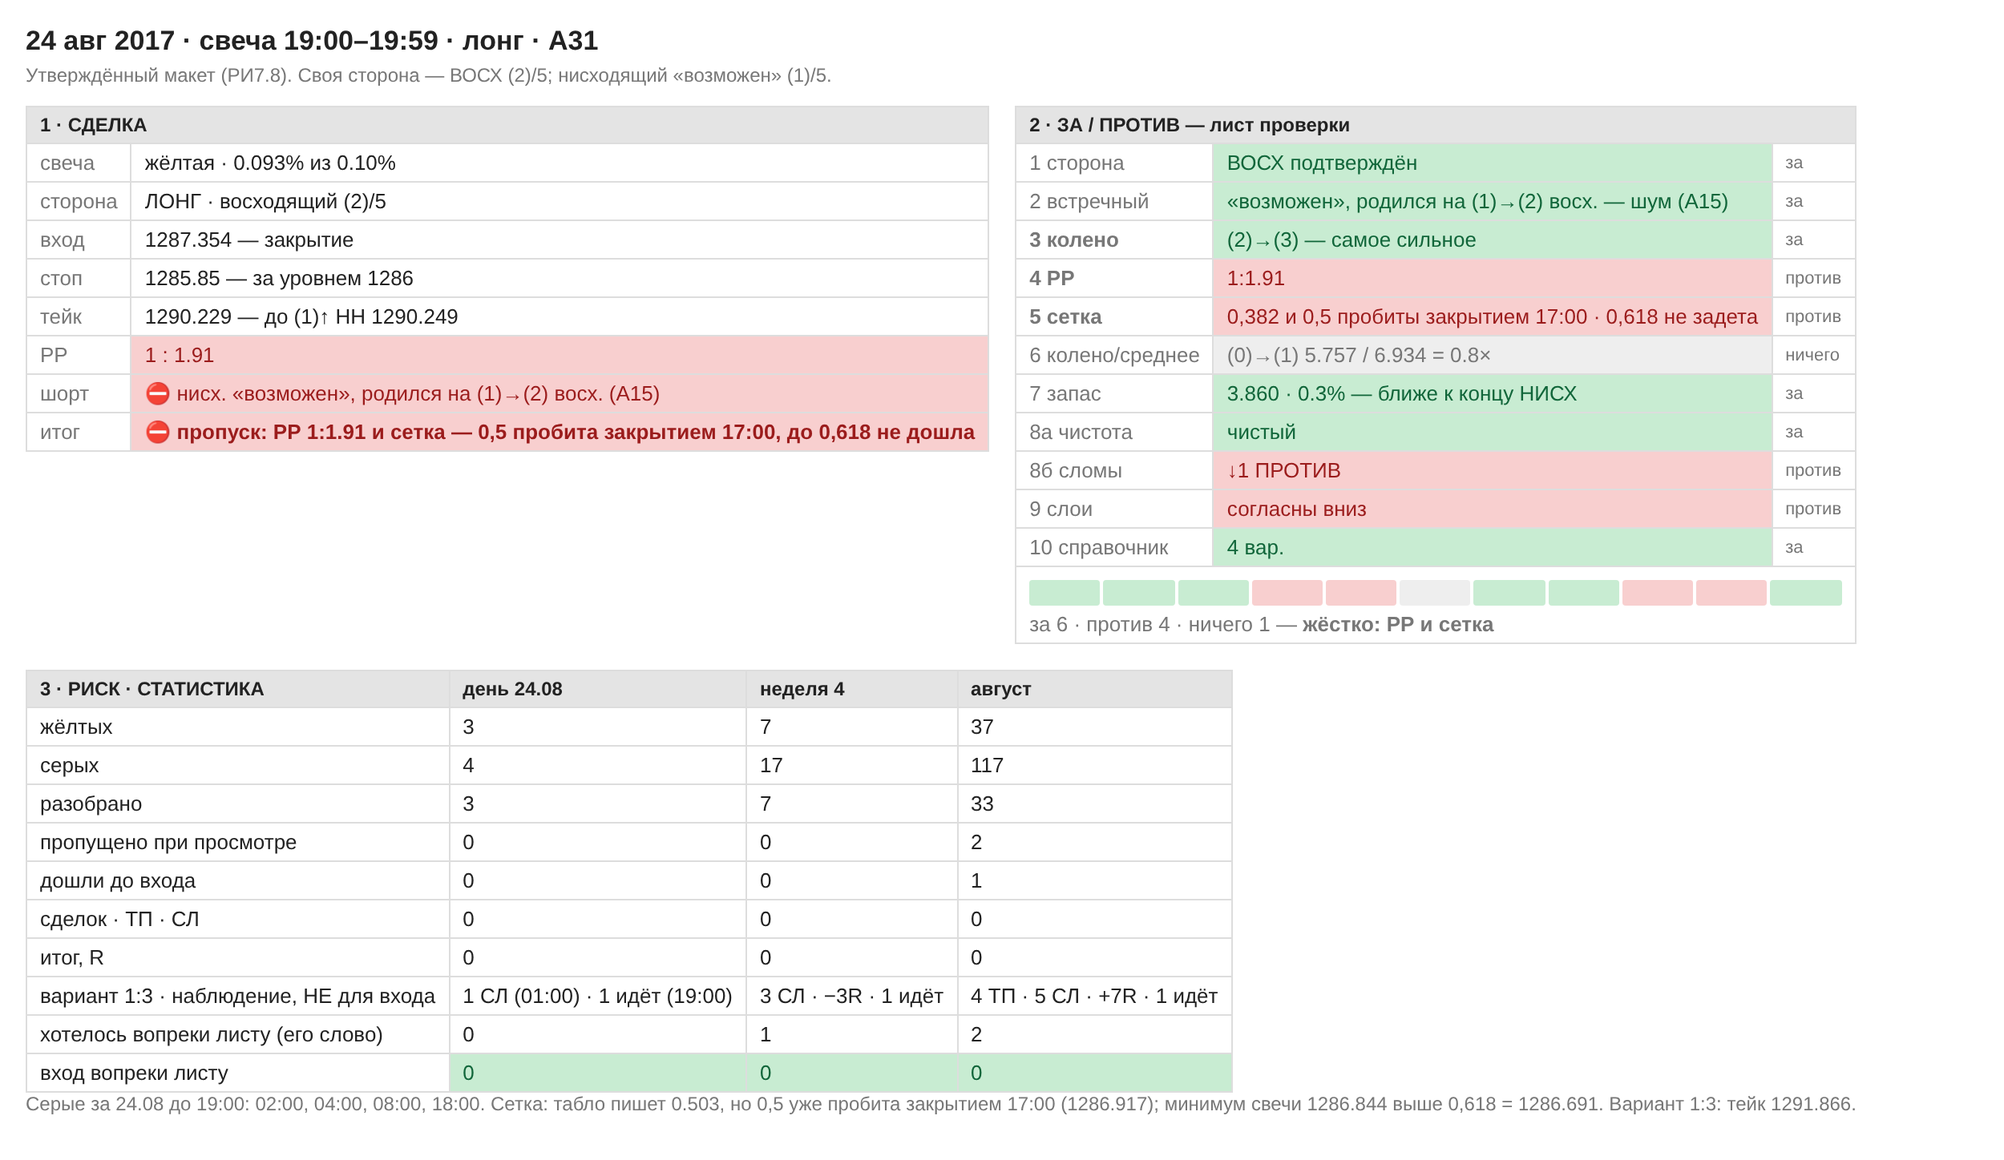
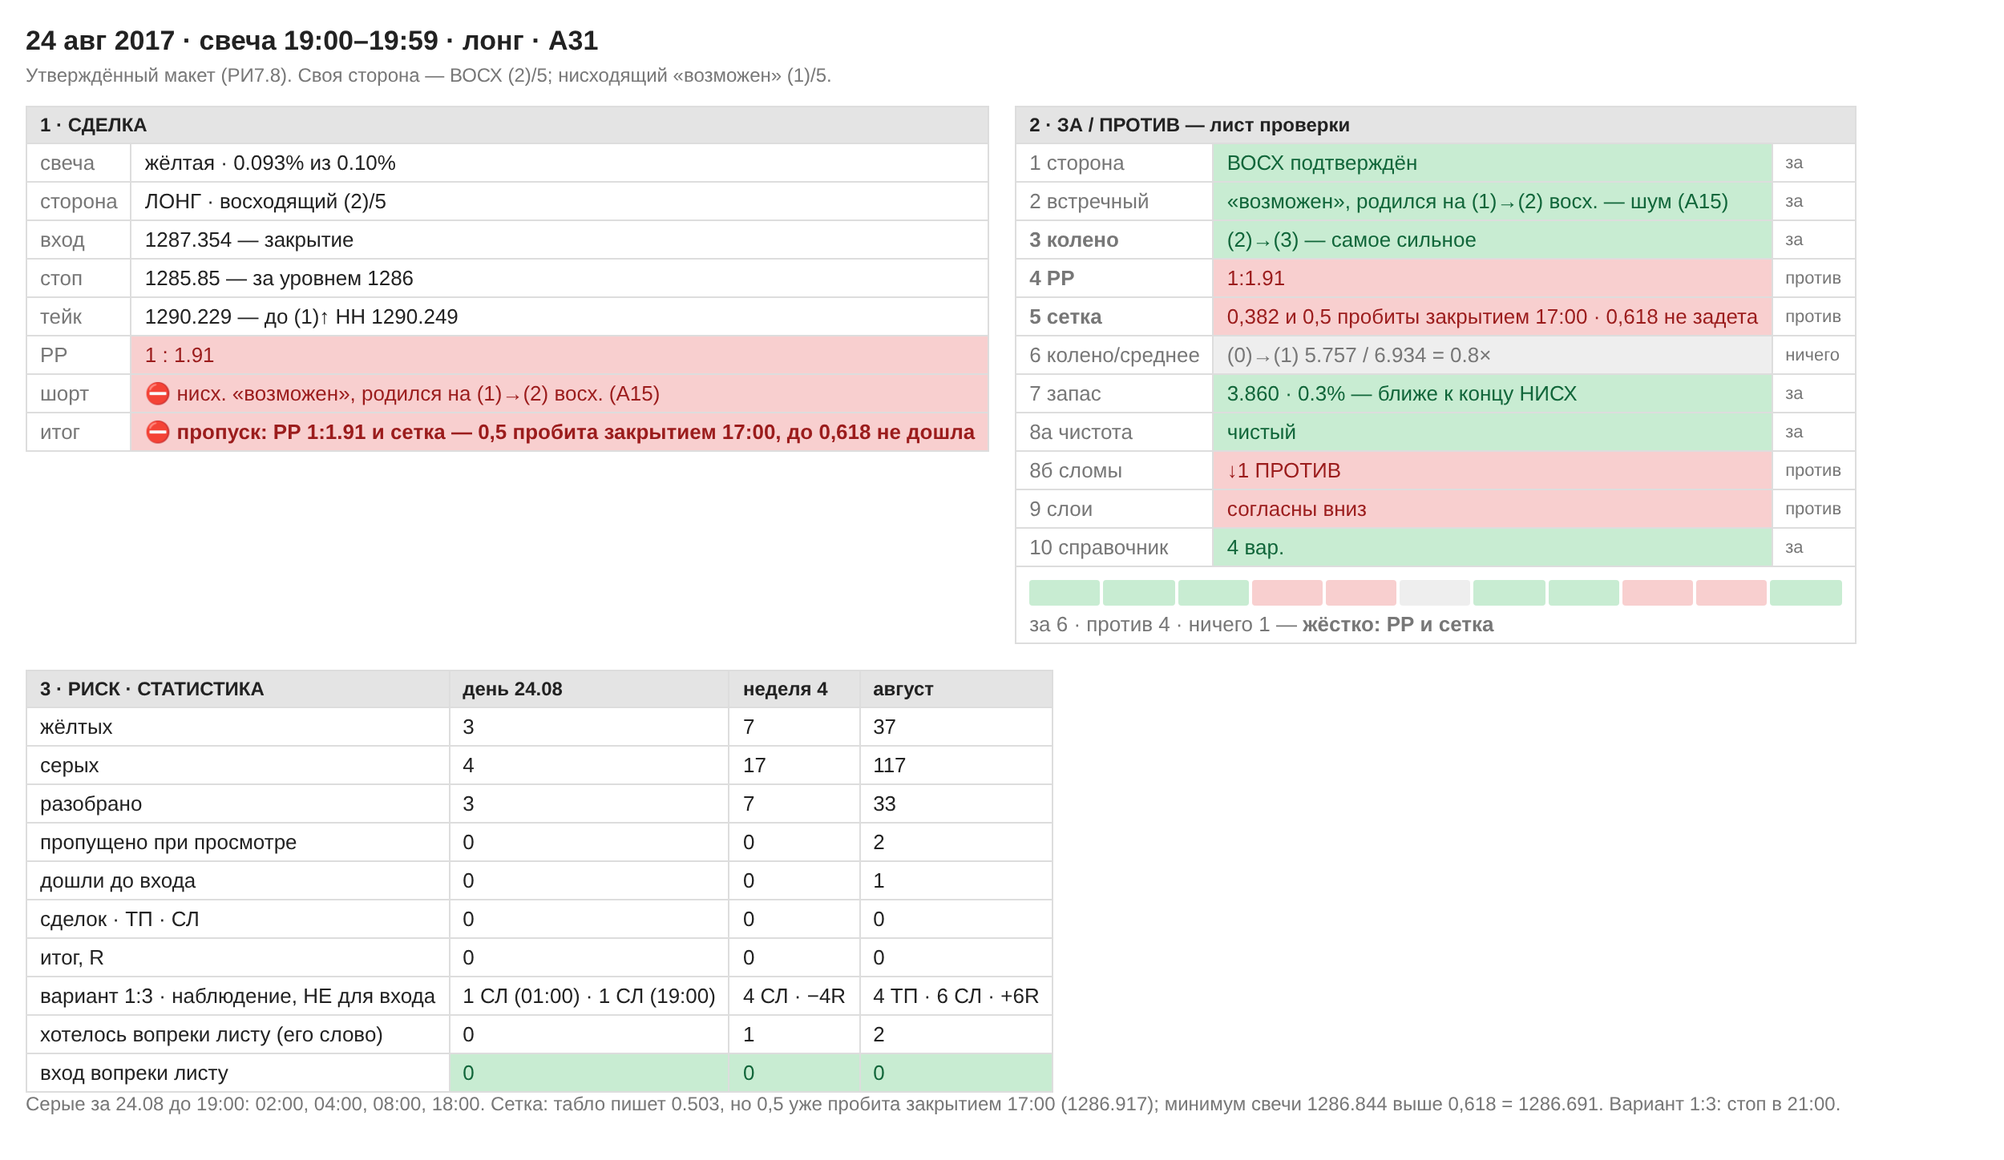
24 авг 19:00: лонг и вариант 1:3 — стоп в 21:00, сверено; В36 10 случаев, +6R
Claude-Session: https://claude.ai/code/session_01TnuyYeu48W8E686G1zottP

diff --git a/research/out/maket/2017-08-24_1900.html b/research/out/maket/2017-08-24_1900.html
@@ -6,4 +6,4 @@ table{border-collapse:collapse;min-width:360px}td,th{border:1px solid var(--ln);
 th{background:var(--h);font-size:12px}.blk td:first-child{color:var(--mut);white-space:nowrap}
 .g{background:var(--g);color:var(--gt)}.r{background:var(--r);color:var(--rt)}.n{background:var(--n);color:var(--mut)}
 .hard{font-weight:bold}.tag{font-size:11px;color:var(--mut)}
-.bar{display:flex;gap:2px;margin:4px 0}.bar span{flex:1;height:16px;border-radius:2px}</style></head><body><h1>24 авг 2017 · свеча 19:00–19:59 · лонг · А31</h1><p class="sub">Утверждённый макет (РИ7.8). Своя сторона — ВОСХ (2)/5; нисходящий «возможен» (1)/5.</p><div class="wrap"><table class="blk"><tr><th colspan="2">1 · СДЕЛКА</th></tr><tr><td>свеча</td><td class="">жёлтая · 0.093% из 0.10%</td></tr><tr><td>сторона</td><td class="">ЛОНГ · восходящий (2)/5</td></tr><tr><td>вход</td><td class="">1287.354 — закрытие</td></tr><tr><td>стоп</td><td class="">1285.85 — за уровнем 1286</td></tr><tr><td>тейк</td><td class="">1290.229 — до (1)↑ HH 1290.249</td></tr><tr><td>РР</td><td class="r">1 : 1.91</td></tr><tr><td>шорт</td><td class="r">⛔ нисх. «возможен», родился на (1)→(2) восх. (А15)</td></tr><tr><td>итог</td><td class="r hard">⛔ пропуск: РР 1:1.91 и сетка — 0,5 пробита закрытием 17:00, до 0,618 не дошла</td></tr></table><table class="blk"><tr><th colspan="3">2 · ЗА / ПРОТИВ — лист проверки</th></tr><tr><td class="">1 сторона</td><td class="g">ВОСХ подтверждён</td><td class="tag">за</td></tr><tr><td class="">2 встречный</td><td class="g">«возможен», родился на (1)→(2) восх. — шум (А15)</td><td class="tag">за</td></tr><tr><td class="hard">3 колено</td><td class="g">(2)→(3) — самое сильное</td><td class="tag">за</td></tr><tr><td class="hard">4 РР</td><td class="r">1:1.91</td><td class="tag">против</td></tr><tr><td class="hard">5 сетка</td><td class="r">0,382 и 0,5 пробиты закрытием 17:00 · 0,618 не задета</td><td class="tag">против</td></tr><tr><td class="">6 колено/среднее</td><td class="n">(0)→(1) 5.757 / 6.934 = 0.8×</td><td class="tag">ничего</td></tr><tr><td class="">7 запас</td><td class="g">3.860 · 0.3% — ближе к концу НИСХ</td><td class="tag">за</td></tr><tr><td class="">8а чистота</td><td class="g">чистый</td><td class="tag">за</td></tr><tr><td class="">8б сломы</td><td class="r">↓1 ПРОТИВ</td><td class="tag">против</td></tr><tr><td class="">9 слои</td><td class="r">согласны вниз</td><td class="tag">против</td></tr><tr><td class="">10 справочник</td><td class="g">4 вар.</td><td class="tag">за</td></tr><tr><td colspan="3"><div class="bar"><span class="g"></span><span class="g"></span><span class="g"></span><span class="r"></span><span class="r"></span><span class="n"></span><span class="g"></span><span class="g"></span><span class="r"></span><span class="r"></span><span class="g"></span></div>за 6 · против 4 · ничего 1 — <b>жёстко: РР и сетка</b></td></tr></table><table><tr><th>3 · РИСК · СТАТИСТИКА</th><th>день 24.08</th><th>неделя 4</th><th>август</th></tr><tr><td>жёлтых</td><td class="">3</td><td class="">7</td><td class="">37</td></tr><tr><td>серых</td><td class="">4</td><td class="">17</td><td class="">117</td></tr><tr><td>разобрано</td><td class="">3</td><td class="">7</td><td class="">33</td></tr><tr><td>пропущено при просмотре</td><td class="">0</td><td class="">0</td><td class="">2</td></tr><tr><td>дошли до входа</td><td class="">0</td><td class="">0</td><td class="">1</td></tr><tr><td>сделок · ТП · СЛ</td><td class="">0</td><td class="">0</td><td class="">0</td></tr><tr><td>итог, R</td><td class="">0</td><td class="">0</td><td class="">0</td></tr><tr><td>вариант 1:3 · наблюдение, НЕ для входа</td><td class="">1 СЛ (01:00) · 1 идёт (19:00)</td><td class="">3 СЛ · −3R · 1 идёт</td><td class="">4 ТП · 5 СЛ · +7R · 1 идёт</td></tr><tr><td>хотелось вопреки листу (его слово)</td><td class="">0</td><td class="">1</td><td class="">2</td></tr><tr><td>вход вопреки листу</td><td class="g">0</td><td class="g">0</td><td class="g">0</td></tr></table></div><p class="sub">Серые за 24.08 до 19:00: 02:00, 04:00, 08:00, 18:00. Сетка: табло пишет 0.503, но 0,5 уже пробита закрытием 17:00 (1286.917); минимум свечи 1286.844 выше 0,618 = 1286.691. Вариант 1:3: тейк 1291.866.</p></body></html>
+.bar{display:flex;gap:2px;margin:4px 0}.bar span{flex:1;height:16px;border-radius:2px}</style></head><body><h1>24 авг 2017 · свеча 19:00–19:59 · лонг · А31</h1><p class="sub">Утверждённый макет (РИ7.8). Своя сторона — ВОСХ (2)/5; нисходящий «возможен» (1)/5.</p><div class="wrap"><table class="blk"><tr><th colspan="2">1 · СДЕЛКА</th></tr><tr><td>свеча</td><td class="">жёлтая · 0.093% из 0.10%</td></tr><tr><td>сторона</td><td class="">ЛОНГ · восходящий (2)/5</td></tr><tr><td>вход</td><td class="">1287.354 — закрытие</td></tr><tr><td>стоп</td><td class="">1285.85 — за уровнем 1286</td></tr><tr><td>тейк</td><td class="">1290.229 — до (1)↑ HH 1290.249</td></tr><tr><td>РР</td><td class="r">1 : 1.91</td></tr><tr><td>шорт</td><td class="r">⛔ нисх. «возможен», родился на (1)→(2) восх. (А15)</td></tr><tr><td>итог</td><td class="r hard">⛔ пропуск: РР 1:1.91 и сетка — 0,5 пробита закрытием 17:00, до 0,618 не дошла</td></tr></table><table class="blk"><tr><th colspan="3">2 · ЗА / ПРОТИВ — лист проверки</th></tr><tr><td class="">1 сторона</td><td class="g">ВОСХ подтверждён</td><td class="tag">за</td></tr><tr><td class="">2 встречный</td><td class="g">«возможен», родился на (1)→(2) восх. — шум (А15)</td><td class="tag">за</td></tr><tr><td class="hard">3 колено</td><td class="g">(2)→(3) — самое сильное</td><td class="tag">за</td></tr><tr><td class="hard">4 РР</td><td class="r">1:1.91</td><td class="tag">против</td></tr><tr><td class="hard">5 сетка</td><td class="r">0,382 и 0,5 пробиты закрытием 17:00 · 0,618 не задета</td><td class="tag">против</td></tr><tr><td class="">6 колено/среднее</td><td class="n">(0)→(1) 5.757 / 6.934 = 0.8×</td><td class="tag">ничего</td></tr><tr><td class="">7 запас</td><td class="g">3.860 · 0.3% — ближе к концу НИСХ</td><td class="tag">за</td></tr><tr><td class="">8а чистота</td><td class="g">чистый</td><td class="tag">за</td></tr><tr><td class="">8б сломы</td><td class="r">↓1 ПРОТИВ</td><td class="tag">против</td></tr><tr><td class="">9 слои</td><td class="r">согласны вниз</td><td class="tag">против</td></tr><tr><td class="">10 справочник</td><td class="g">4 вар.</td><td class="tag">за</td></tr><tr><td colspan="3"><div class="bar"><span class="g"></span><span class="g"></span><span class="g"></span><span class="r"></span><span class="r"></span><span class="n"></span><span class="g"></span><span class="g"></span><span class="r"></span><span class="r"></span><span class="g"></span></div>за 6 · против 4 · ничего 1 — <b>жёстко: РР и сетка</b></td></tr></table><table><tr><th>3 · РИСК · СТАТИСТИКА</th><th>день 24.08</th><th>неделя 4</th><th>август</th></tr><tr><td>жёлтых</td><td class="">3</td><td class="">7</td><td class="">37</td></tr><tr><td>серых</td><td class="">4</td><td class="">17</td><td class="">117</td></tr><tr><td>разобрано</td><td class="">3</td><td class="">7</td><td class="">33</td></tr><tr><td>пропущено при просмотре</td><td class="">0</td><td class="">0</td><td class="">2</td></tr><tr><td>дошли до входа</td><td class="">0</td><td class="">0</td><td class="">1</td></tr><tr><td>сделок · ТП · СЛ</td><td class="">0</td><td class="">0</td><td class="">0</td></tr><tr><td>итог, R</td><td class="">0</td><td class="">0</td><td class="">0</td></tr><tr><td>вариант 1:3 · наблюдение, НЕ для входа</td><td class="">1 СЛ (01:00) · 1 СЛ (19:00)</td><td class="">4 СЛ · −4R</td><td class="">4 ТП · 6 СЛ · +6R</td></tr><tr><td>хотелось вопреки листу (его слово)</td><td class="">0</td><td class="">1</td><td class="">2</td></tr><tr><td>вход вопреки листу</td><td class="g">0</td><td class="g">0</td><td class="g">0</td></tr></table></div><p class="sub">Серые за 24.08 до 19:00: 02:00, 04:00, 08:00, 18:00. Сетка: табло пишет 0.503, но 0,5 уже пробита закрытием 17:00 (1286.917); минимум свечи 1286.844 выше 0,618 = 1286.691. Вариант 1:3: стоп в 21:00.</p></body></html>

diff --git a/indicator/ТАБЛО-НА-СВЕЧЕ.md b/indicator/ТАБЛО-НА-СВЕЧЕ.md
@@ -43,7 +43,7 @@
 | 23 авг 22:00 | А28 | скрин | **ВОСХ** / возможен | **(4)** / (1) | ↑ чистый, ↑3 за · ↓ чистый, ↑3 ПРОТИВ | согласны (вверх) | 0.36% · ближе к концу НИСХ | 6.624 / 7.396 | ВОСХ `(2)→(3)`, 0.196 — между | лонг 1:0.88 | пропуск: РР, сетка; шорт — А15 | лонг — **стоп** 24 авг 03:00 |
 | 24 авг 01:00 | А29 | скрин | **ВОСХ** / возможен | **(4)** / (1) | ↑ чистый, ↑3 за · ↓ чистый, ↑3 ПРОТИВ | согласны (вверх) | 0.42% · ближе к концу НИСХ | 6.624 / 7.396 | ВОСХ `(2)→(3)`, 0.128 — между | лонг 1:0.92 | пропуск: РР, сетка; шорт — А15 | лонг — **стоп** 24 авг 03:00 |
 | 24 авг 12:00 | А30 | скрин | умер / **НИСХ** | — / (4)·**(5) предв.** | ↓ чистый, ↓3 за, С20/С29 | согласны (вниз) | 0.42% | 4.136 / 7.097 | НИСХ `(2)→(3)`, −0.207 — за (3), вне сетки | **шорт 1:5.02** | пропуск: бледная (5), ТС8.13 | шорт — **стоп** следующей свечой, 13:00 (макс. 1287.405), ТС8.13 уберёг 1R |
-| 24 авг 19:00 | А31 | скрин | **ВОСХ** / возможен | (2) / (1) | ↑ чистый, ↓1 ПРОТИВ · ↓ чистый, ↓1 за | согласны (вниз) | 0.3% · ближе к концу НИСХ | 5.757 / 6.934 | ВОСХ `(0)→(1)`, табло 0.503 · по Ф1.5 0,5 пробита закрытием 17:00 — между | лонг 1:1.91 | пропуск: РР, сетка; шорт — А15 | — идёт |
+| 24 авг 19:00 | А31 | скрин | **ВОСХ** / возможен | (2) / (1) | ↑ чистый, ↓1 ПРОТИВ · ↓ чистый, ↓1 за | согласны (вниз) | 0.3% · ближе к концу НИСХ | 5.757 / 6.934 | ВОСХ `(0)→(1)`, табло 0.503 · по Ф1.5 0,5 пробита закрытием 17:00 — между | лонг 1:1.91 | пропуск: РР, сетка; шорт — А15 | лонг — **стоп** в 21:00 (и 1:3 тоже) |
 
 ⚠ **8 авг 03:00 — табло на бар позади.** На закрытии свечи было уже
 **(2)** и **ВОСХ**; на графике он видел (1) и «возможен» — З77, починено в
@@ -193,11 +193,11 @@ v3.44 (на проверке).
 | 23 авг 08:00 | шорт | 1285.636 | 1287.15 | 1282.073 | 1:2.35 | **1281.094** | 0.96 | ⛔ **не все**: встречный-кандидат, сетка, запас, слои | ⛔ **стоп** следующей свечой, 09:00 (макс. 1287.268) |
 | 23 авг 22:00 | лонг | 1290.301 | 1288.85 | 1291.578 | 1:0.88 | **1294.654** | 3.06 | ⛔ **не все**: сетка | ⛔ **стоп** 24 авг 03:00 (мин. 1288.268) |
 | 24 авг 01:00 | лонг | 1290.751 | 1289.85 | 1291.578 | 1:0.92 | **1293.454** | 1.86 | ⛔ **не все**: сетка | ⛔ **стоп** 24 авг 03:00 (мин. 1288.268) |
-| 24 авг 19:00 | лонг | 1287.354 | 1285.85 | 1290.229 | 1:1.91 | **1291.866** | 1.62 | ⛔ **не все**: сетка, сломы, слои | — идёт |
+| 24 авг 19:00 | лонг | 1287.354 | 1285.85 | 1290.229 | 1:1.91 | **1291.866** | 1.62 | ⛔ **не все**: сетка, сломы, слои | ⛔ **стоп** в 21:00 (мин. 1285.420) |
 
 Тейк до вершины (3) 1267.246 был бы взят тоже в 10:00 — у обеих свечей.
 
-**Итог девяти случаев В36:** 4 тейка (9 авг ×2 — спорно «все за»; 15 авг и 18 авг — «не все за») · 5 стопов (11 авг, 16 авг, 23 авг 08:00, 23 авг 22:00, 24 авг 01:00 — все «не все за») → **+7R**. Девять случаев — не вывод. «Не все за» отдельно: 7 случаев, 2 тейка · 5 стопов, **+1R**. ~~Итог семи: +9R.~~ ~~Итог шести: +10R.~~ ~~Итог пяти: +7R.~~ **Наблюдение, НЕ правило входа** (А22).
+**Итог десяти случаев В36:** 4 тейка (9 авг ×2 — спорно «все за»; 15 авг и 18 авг — «не все за») · 6 стопов (11 авг, 16 авг, 23 авг 08:00, 23 авг 22:00, 24 авг 01:00, 24 авг 19:00 — все «не все за») → **+6R**. Десять случаев — не вывод. «Не все за» отдельно: 8 случаев, 2 тейка · 6 стопов, **0R**. ~~Итог девяти: +7R.~~ ~~Итог семи: +9R.~~ ~~Итог шести: +10R.~~ ~~Итог пяти: +7R.~~ **Наблюдение, НЕ правило входа** (А22).
 
 ⚠ **9 августа — пример ли это «все за»?** По его правилу колен на (3)/5
 лонг не берётся, то есть не всё за. Показываю расхождение, не выбираю:

diff --git a/indicator/КАК-ТОРГУЮ.md b/indicator/КАК-ТОРГУЮ.md
@@ -3970,3 +3970,11 @@ LH 1290.234 · рубится глубиной 1291.653 · запас 5.347, 0.4
 вывод.
 
 **Ответ на А31, 18.11.2026:** «нет, желания не было». «Хотелось вопреки листу» — **0**.
+
+#### ИСХОД 24 авг 19:00 — его слово «стоп по ней». Сверено
+
+Стоп 1285.85 выбит в **21:00** (минимум 1285.420) — и у варианта 1:3, и у
+тейка до вершины: оба тейка не задеты.
+
+**В36 теперь: 10 случаев, 4 тейка · 6 стопов, +6R; «не все за» — 8
+случаев, 2 тейка · 6 стопов, 0R.** Наблюдение, не правило входа (А22).
